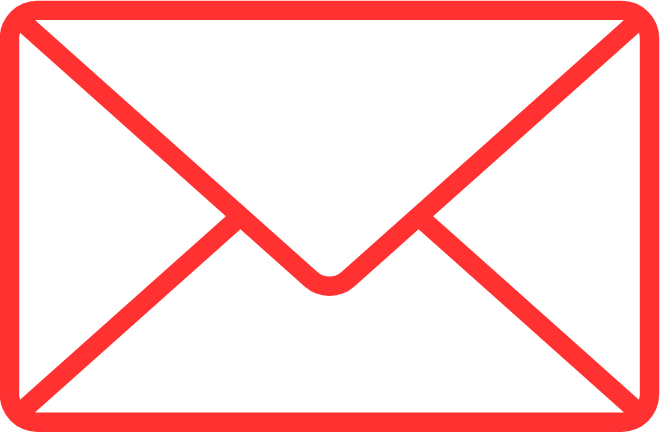
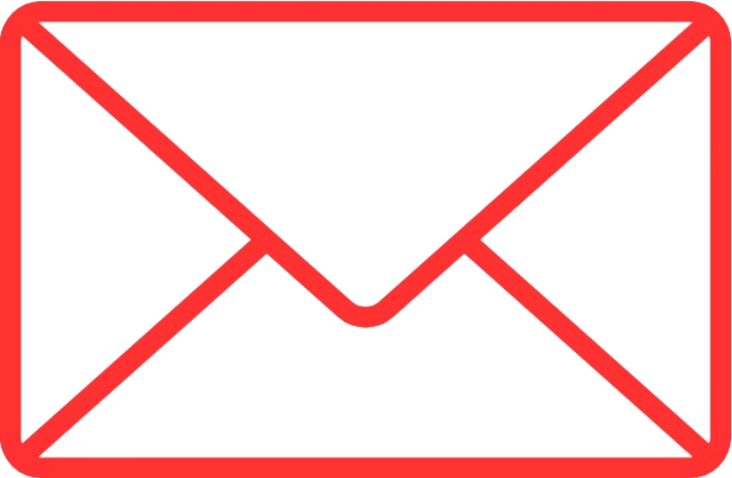
page conctez-nous modification

diff --git a/elan-fitness/contact.css b/elan-fitness/contact.css
@@ -1,25 +1,68 @@
+#contactez-nous.section {
+  padding: 24px 0;
+}
+
+#contactez-nous .section-titre {
+  margin-bottom: 8px;
+}
+
+#contactez-nous .section-titre h2 {
+  margin: 0 0 4px;
+  font-size: 1.8rem;
+}
+
+#contactez-nous .section-titre p {
+  margin: 0;
+}
+.contact-info .contact-info-item {
+  display: flex;
+  align-items: center;
+  flex-wrap: nowrap;
+  gap: 8px;
+  margin: 0;
+  font-size: 0.8rem;
+  line-height: 1.3;
+  white-space: nowrap;
+}
+
+.contact-info .contact-icon {
+  width: 18px;
+  height: 18px;
+  object-fit: contain;
+  flex-shrink: 0;
+}
+
 .contact-description {
   max-width: 700px;
-  margin: 0 auto 24px;
+  margin: 0 auto 16px;
   text-align: center;
+  font-size: 0.95rem;
+  line-height: 1.4;
 }
 
 .contact-grid {
-  display: grid;
-  grid-template-columns: 1fr 1fr;
-  gap: 40px;
   max-width: 900px;
   margin: 0 auto;
-  align-items: start;
+  padding: 20px 24px;
+  background: #fff;
+  border-radius: 10px;
+  box-shadow: 0 6px 20px rgba(0, 0, 0, 0.08);
 }
 
 .formulaire-contact {
-  display: flex;
-  flex-direction: column;
-  gap: 12px;
+  display: grid;
+  grid-template-columns: 1.3fr 1fr;
+  column-gap: 28px;
+  row-gap: 10px;
+  align-items: start;
 }
 
-.formulaire-contact div {
+.formulaire-champ,
+.formulaire-bouton {
+  grid-column: 1;
+}
+
+.formulaire-champ {
   display: flex;
   flex-direction: column;
   gap: 4px;
@@ -27,42 +70,117 @@
 
 .formulaire-contact input,
 .formulaire-contact textarea {
-  padding: 10px;
+  width: 100%;
+  box-sizing: border-box;
+  padding: 8px 10px;
   border: 1px solid #ccc;
   border-radius: 6px;
   font: inherit;
 }
 
+.formulaire-contact textarea {
+  height: 80px;
+  resize: none;
+}
+
+.formulaire-contact input:focus,
+.formulaire-contact textarea:focus {
+  outline: none;
+  border-color: #FF6B2C;
+  box-shadow: 0 0 0 3px rgba(255, 107, 44, 0.25);
+}
+
+/* ===== Bouton ===== */
 .formulaire-contact button {
-  align-self: flex-start;
-  padding: 10px 28px;
+  padding: 9px 28px;
   border: none;
   border-radius: 6px;
   background: #FF6B2C;
+  background: #FFB76B;
+  background: linear-gradient(to right, #FFB76B 14%, #FFA73D 32%, #FF7C00 50%, #FF7F04 73%);  
+ 
   color: #fff;
   font: inherit;
+  font-weight: 700;
   cursor: pointer;
-  text-align: center;
+  transition: background 0.2s;
+}
+
+.formulaire-contact button:hover {
+  background: #e65a1c;
+}
+
+.formulaire-contact button:focus-visible {
+  outline: 3px solid #1f2430;
+  outline-offset: 3px;
+}
+
+.contact-info {
+  grid-column: 2;
+  grid-row: 1 / span 4;
+  align-self: stretch;
+  display: flex;
+  flex-direction: column;
+  justify-content: center;
+  gap: 14px;
+  padding: 18px;
+  background: #f48455;
+  border:  2px solid #FF6B2C;
+  background: #FFB76B;
+  background: linear-gradient(to right, #FFB76B 14%, #FFA73D 32%, #FF7C00 50%, #FF7F04 73%);  
+  color: #fff;
+  border-radius: 8px;
 }
 
 .contact-info p {
   display: flex;
   align-items: center;
-  justify-content: flex-start;
-  gap: 10px;
-  margin: 0 0 16px;
+  flex-wrap: wrap;
+  gap: 4px 10px;
+  margin: 0;
+  font-size: 0.92rem;
+  line-height: 1.4;
+}
+
+.contact-info a {
+  color: #fff;
+  text-underline-offset: 3px;
+  text-decoration: underline;
+}
+
+.contact-info a:hover,
+.contact-info a:focus-visible {
+  color: #FF6B2C;
 }
 
 .contact-icon {
-  width: 24px;
-  height: 24px;
+  width: 22px;
+  height: 22px;
   object-fit: contain;
+  flex-shrink: 0;
 }
 
-/* Mobile : retour à une seule colonne */
-@media (max-width: 768px) {
+@media (max-width: 1023px) {
+  .formulaire-contact {
+    column-gap: 20px;
+  }
+}
+
+@media (max-width: 767px) {
   .contact-grid {
+    padding: 16px;
+  }
+
+  .formulaire-contact {
     grid-template-columns: 1fr;
-    gap: 24px;
+  }
+
+  .contact-info {
+    grid-column: 1;
+    grid-row: auto;
+  }
+
+  .formulaire-contact button {
+    width: 100%;
   }
 }

diff --git a/elan-fitness/contact.html b/elan-fitness/contact.html
@@ -38,6 +38,7 @@
 
     <section id="contactez-nous" class="section">
       <div class="conteneur">
+          
         <div class="section-titre">
           <h2>Contactez-nous</h2>
           <p>Nous sommes là pour vous aider</p>
@@ -47,42 +48,45 @@
           Vous avez des questions sur nos programmes, nos horaires ou nos tarifs ? Remplissez le formulaire ci-dessous et nous vous répondrons dans les plus brefs délais.
         </p>
 
-    <div class="contact-grid">
-    <form  class="formulaire-contact">
-        <div>
+        <div class="contact-grid">
+     
+        <form  class="formulaire-contact">
+
+        <div class="formulaire-champ">
         <label for="nom"><strong>Nom :</strong></label>
         <input type="text" id="nom" name="nom" required>
         </div>
 
-        <div>
+        <div class="formulaire-champ">
         <label for="email"><strong>Email :</strong></label>
         <input type="email" id="email" name="email" required>
         </div>
 
-        <div>
+        <div class="formulaire-champ">
         <label for="message"><strong>Message :</strong></label>
         <textarea id="message" name="message" rows="5" required></textarea>
         </div>
-
-        <div>
+        
+        <div class="formulaire-bouton">
         <button type="submit">Envoyer</button>
         </div>
 
         <div class="contact-info">
-          <p>
+          <p class="contact-info-item">
             <img src="img/local.png" alt="Adresse" class="contact-icon">
             <strong>Adresse :</strong> 12 rue des Palmiers, 20000 Casablanca</p>
           
-          <p>
-            <img src="img/phone.png" alt="Téléphone" class="contact-icon">
-          <strong>Téléphone :</strong> +212 5 22 00 00 00</p>
+          <p class="contact-info-item">
+            <img src="img/téléchargement.png" alt="Téléphone" class="contact-icon">
+          <strong>Téléphone :</strong> +212 6 77 82 00 43</p>
 
           <p>
             <img src="img/email.png" alt="Email" class="contact-icon">
             <strong>Email :</strong> <a href="mailto:info@elan-fitness.ma">info@elan-fitness.ma</a></p>
         </div>
-        </div>
+       
     </form>
+    </div>
     </section>
            
   </main>
@@ -119,3 +123,4 @@
 
 </body>
 </html>
+ 
